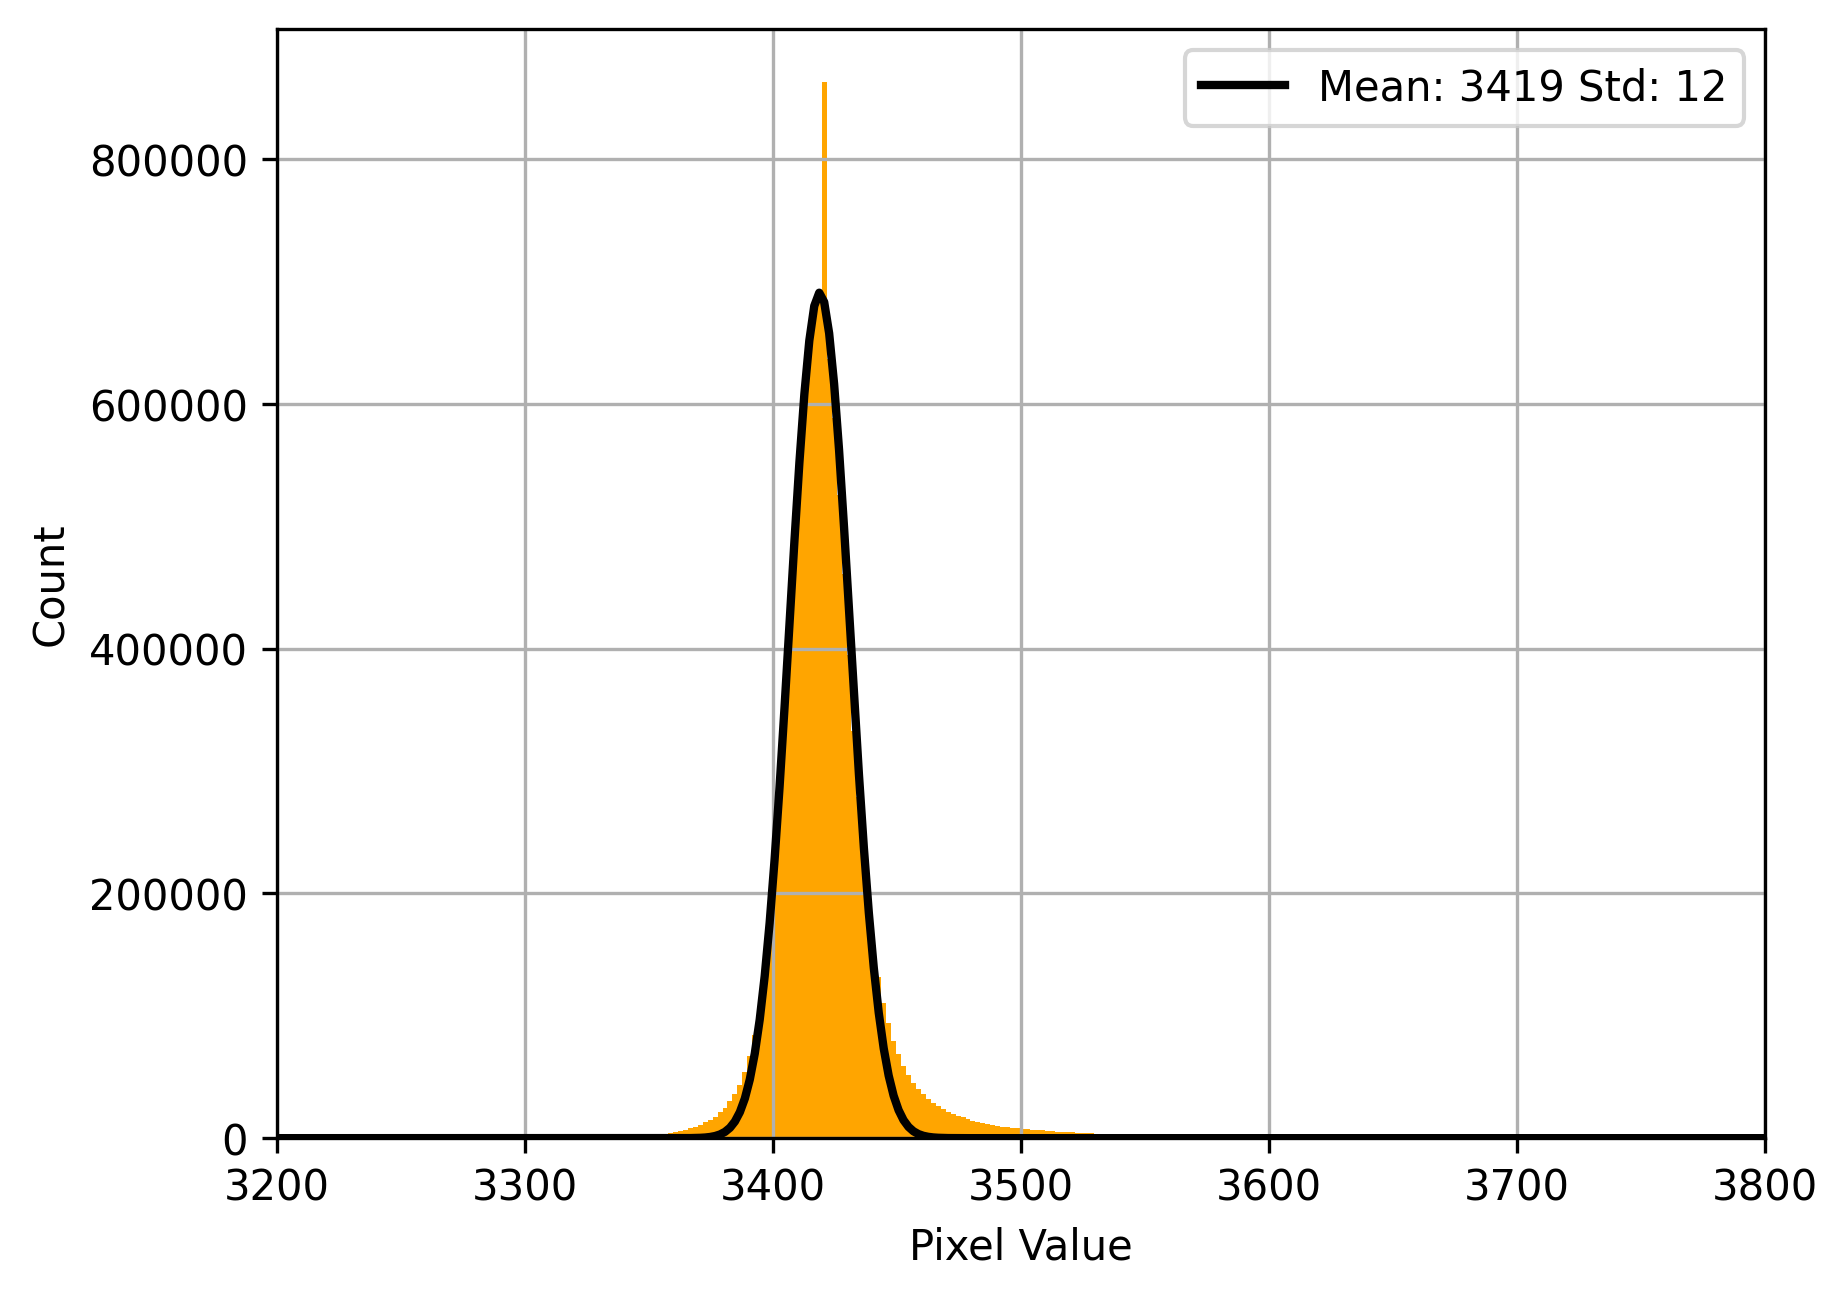
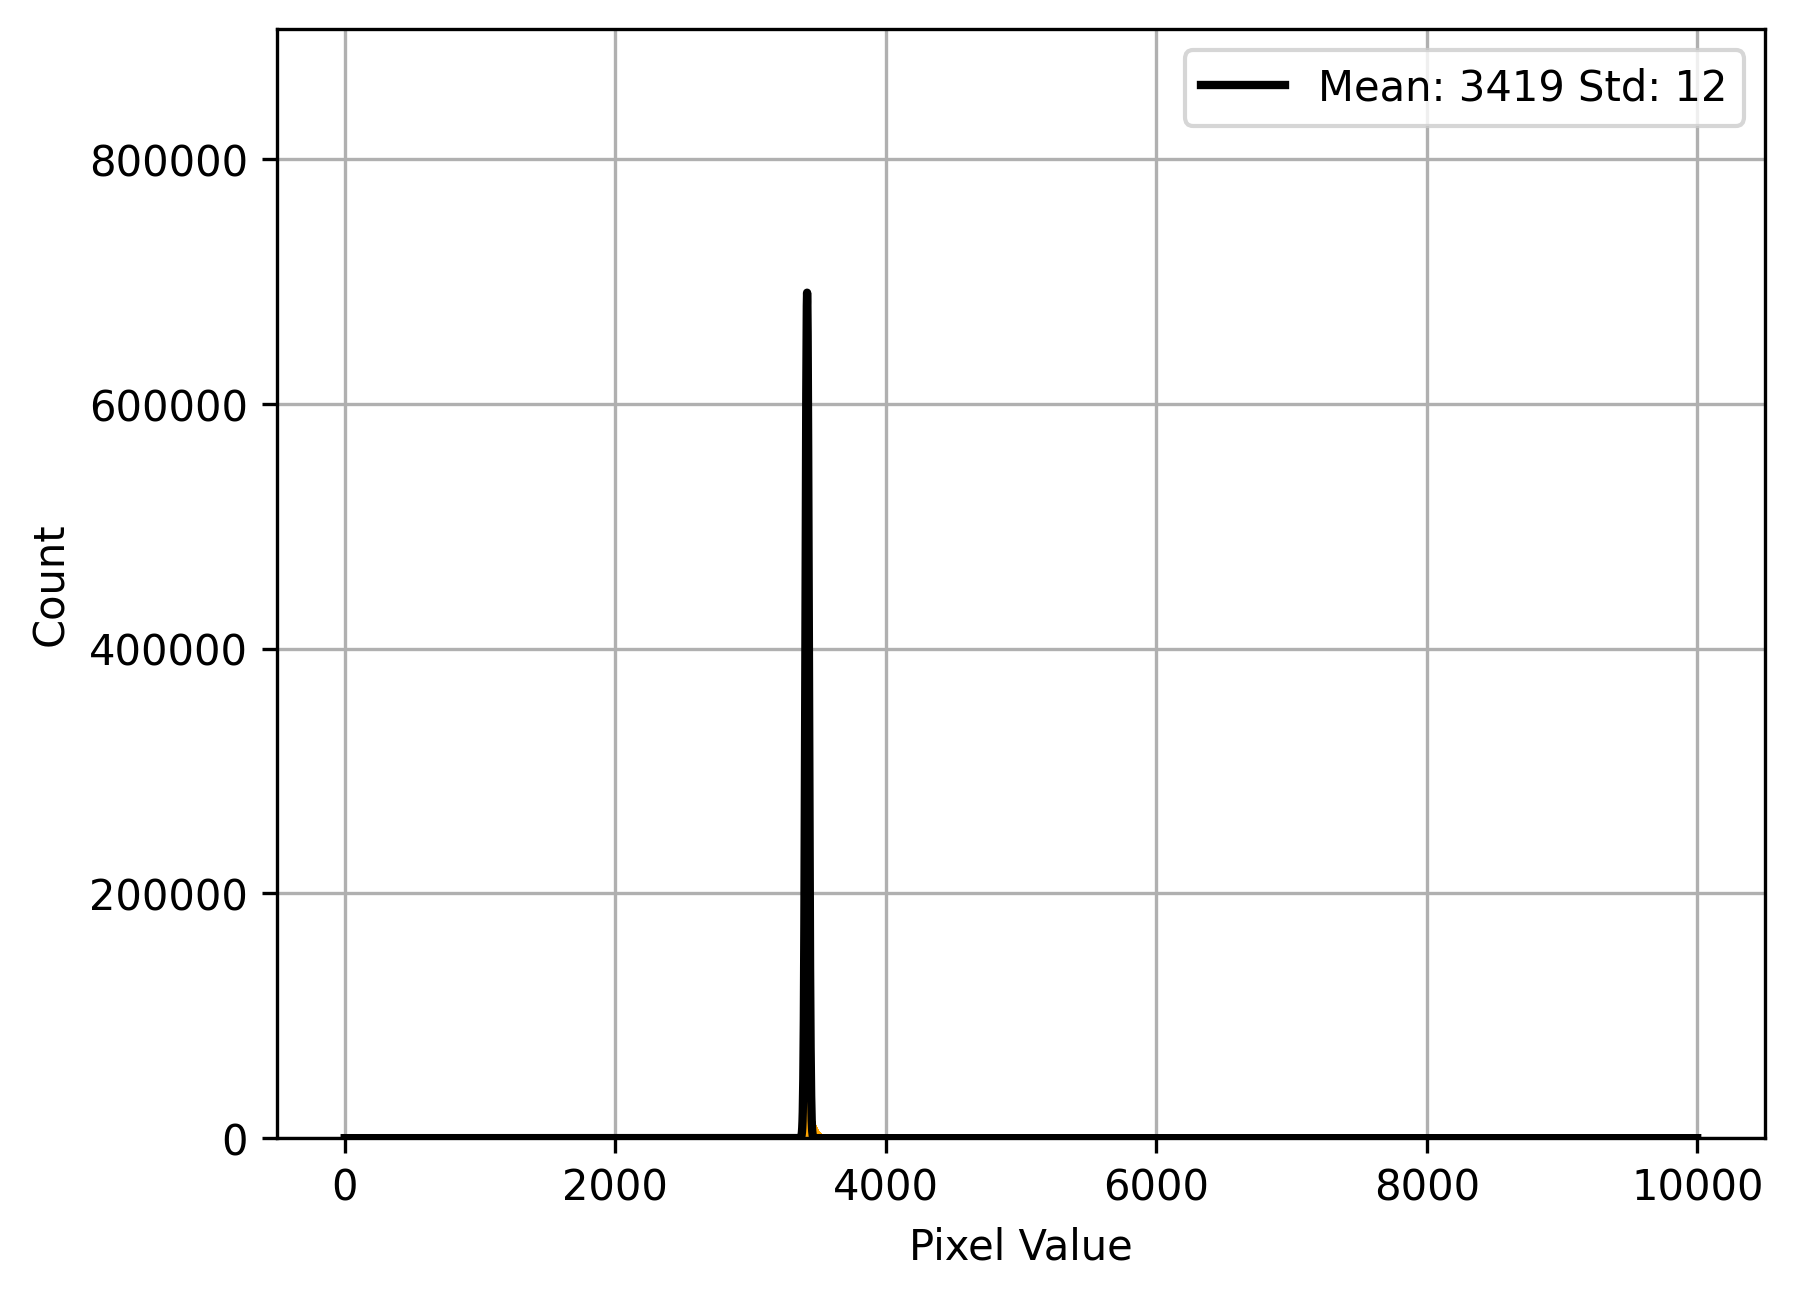
Adds masking of whole image

diff --git a/masking.py b/masking.py
@@ -1,0 +1,43 @@
+"""
+Masks image to indicate prescence of objects.
+"""
+
+import numpy as np
+from astropy.io import fits
+import matplotlib.pyplot as plt
+from matplotlib.colors import LogNorm
+
+hdulist = fits.open('A1_mosaic.fits')
+
+header = hdulist[0].header
+data = hdulist[0].data
+
+hdulist.close()
+
+#generate array of same shape
+mask = np.full_like(data, 0)
+
+#detect objects by pixel value, max = 30000, min = mean + 4 std devs = 3467
+val_min = 3467
+val_max = 10000
+
+for i in range(data.shape[0]):
+    for j in range(data.shape[1]):
+        pixel = data[i,j]
+        if pixel >= val_min and pixel < val_max:
+            mask[i,j] = 1
+        else:
+            mask[i,j] = 0
+
+plt.figure(1)
+plt.imshow(data, cmap = 'gray', norm=LogNorm())
+plt.colorbar()
+ymin, ymax = plt.ylim()
+plt.ylim(ymax, ymin)
+
+plt.figure(2)
+plt.imshow(mask, cmap='gray')
+plt.colorbar()
+ymin, ymax = plt.ylim()
+plt.ylim(ymax, ymin)
+plt.show()

diff --git a/global_test.py b/global_test.py
@@ -35,7 +35,8 @@ y_mid = np.random.randint(low=0, high=np.amax(data.shape[1]), size=no_blobs)
 blobs = np.full_like(data, 0)
 cov = np.array([[1.65, 0], [0, 1.65]]) #sigma based off FWHM and resolution
 
-for i in range(no_blobs+1)
-    x, y = np.random.default_rng().multivariate_normal(np.array([x_mid[i], y_mid[i]]), cov) #should have mean values as brightness, need to work out positions - maybe better to do each dimension separately?
+#for i in range(no_blobs+1):
+    #x, y = np.random.default_rng().multivariate_normal(np.array([x_mid[i], y_mid[i]]), cov)
+    #blobs = 5000*x
 
 #different shapes of galaxies

diff --git a/hist.py b/hist.py
@@ -29,7 +29,7 @@ for i in range(1, len(bins)):
 popt, pcov = curve_fit(func, points, n, p0=[3410, 50, 700000])
 
 plt.plot(points, func(points, *popt), 'k', linewidth = 2, label = "Mean: " + str(int(round(popt[0], 0))) + " Std: " + str(int(round(popt[1], 0))))
-plt.xlim((3200, 3800))
+plt.xlim()
 plt.xlabel('Pixel Value')
 plt.ylabel('Count')
 plt.legend()
